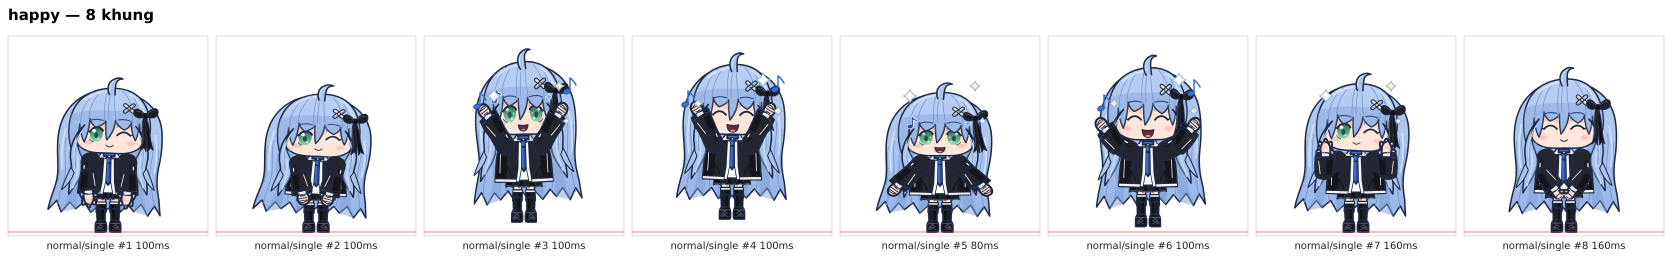
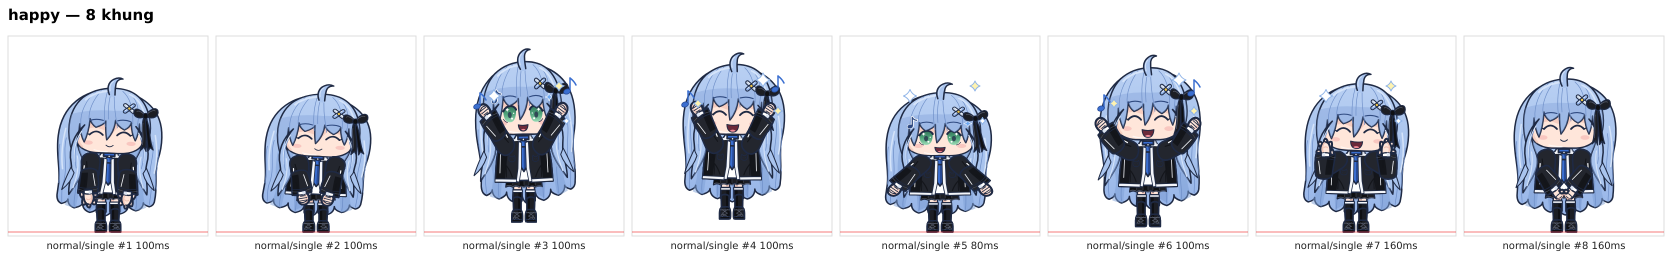
art(action): happy dùng mặt cười hai mắt thay vì nháy mắt; cập nhật ảnh duyệt
Claude-Session: https://claude.ai/code/session_01FvidWoeLaFPFz5tGxdbyt5

diff --git a/tools/rig/actions/happy.js b/tools/rig/actions/happy.js
@@ -16,12 +16,12 @@ const f = (o) => o;
 
 const frames = [
   // 1 lấy đà
-  f({ ms: 100, face: 'happy', global: G(0.96, 0, 1.02),
+  f({ ms: 100, face: 'closed_happy', global: G(0.96, 0, 1.02),
       bones: { chest: { sy: 0.98, r: 2 }, head: { r: 0, y: 2 }, ...arms(-12, 8, -12, 8), ...hairBack(-0.5), hand_l: {}, hand_r: {} },
       swap: { hand_l: 'open', hand_r: 'open' }, z: ARM_Z,
       show: [] }),
   // 2 nén sâu, tay vung ra sau
-  f({ ms: 100, face: 'happy', global: G(0.93, 0, 1.03),
+  f({ ms: 100, face: 'closed_happy', global: G(0.93, 0, 1.03),
       bones: { chest: { sy: 0.97, r: 3 }, head: { r: 0, y: 3 }, ...arms(-22, 8, -22, 8), ...hairBack(-1) },
       swap: { hand_l: 'fist', hand_r: 'fist' }, z: ARM_Z }),
   // 3 bật lên, kéo giãn, tay giơ nắm
@@ -48,7 +48,7 @@ const frames = [
       show: [{ id: 'fx_notes', file: 'fx/notes_music.svg', bone: 'canvas', z: 210, y: 4 },
              { id: 'fx_sp2', file: 'fx/sparkle2.svg', bone: 'canvas', z: 211 }] }),
   // 7 đứng ôm má
-  f({ ms: 160, face: 'happy', global: G(0.98, 0, 1.01),
+  f({ ms: 160, face: 'laugh', global: G(0.98, 0, 1.01),
       bones: { chest: { sy: 0.99, r: 0 }, head: { r: 3, y: 1 }, ...arms(40, 140), ...hairBack(-0.4) },
       swap: { hand_l: 'open', hand_r: 'open' }, z: ARM_Z,
       show: [{ id: 'fx_sp1', file: 'fx/sparkle.svg', bone: 'canvas', z: 211 }] }),
